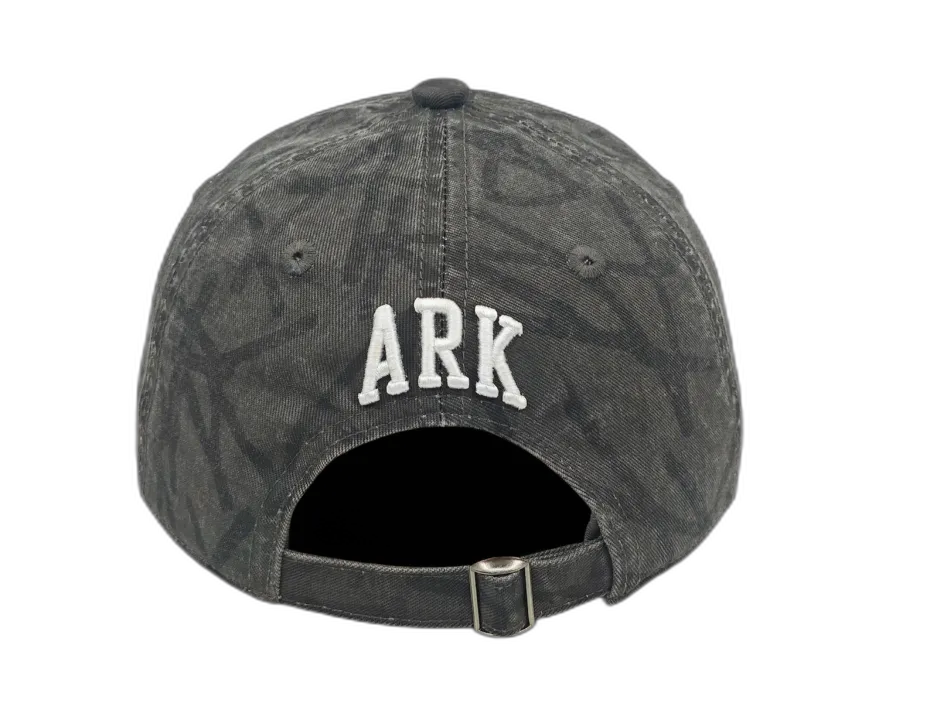
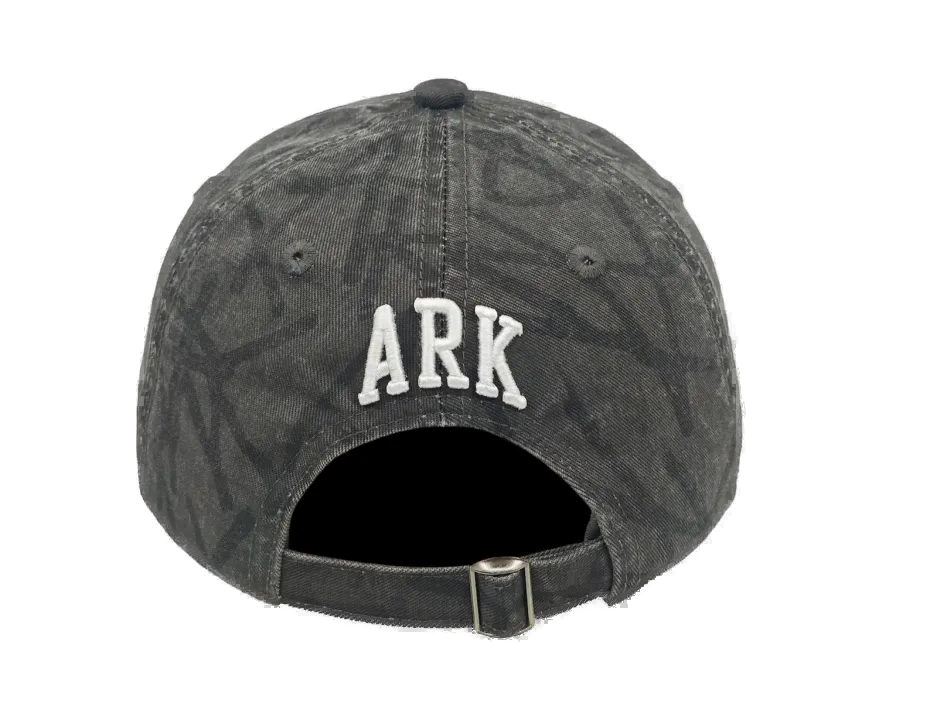
Fix cap back bg removal, remove heavy weight tag from hoodie

diff --git a/product.html b/product.html
@@ -607,7 +607,7 @@
       hoodie: {
         name: 'Memoir Hoodie',
         price: '$150',
-        tag: 'HEAVY WEIGHT',
+        tag: 'LIMITED RUN',
         desc: '400 GSM French terry. Oversized cropped zip-up with double-layered hood, distressed patchwork sleeves, chrome hardware, and tonal "ARK EXOTIC" back embroidery. Built for late rides.',
         sizes: ['S', 'M', 'L'],
         images: ['images/img5-nobg.png', 'images/img4-nobg.png'],

diff --git a/index.html b/index.html
@@ -597,7 +597,7 @@
       </a>
       <a href="product.html?item=hoodie" class="product-card">
         <div class="product-img hoodie">
-          <span class="tag">Heavy Weight</span>
+          <span class="tag">Limited Run</span>
           <img class="main" src="images/hoodie-product.jpg" alt="Memoir Hoodie - On Body">
           <img class="alt" src="images/img4.webp" alt="Memoir Hoodie - Back View">
         </div>
